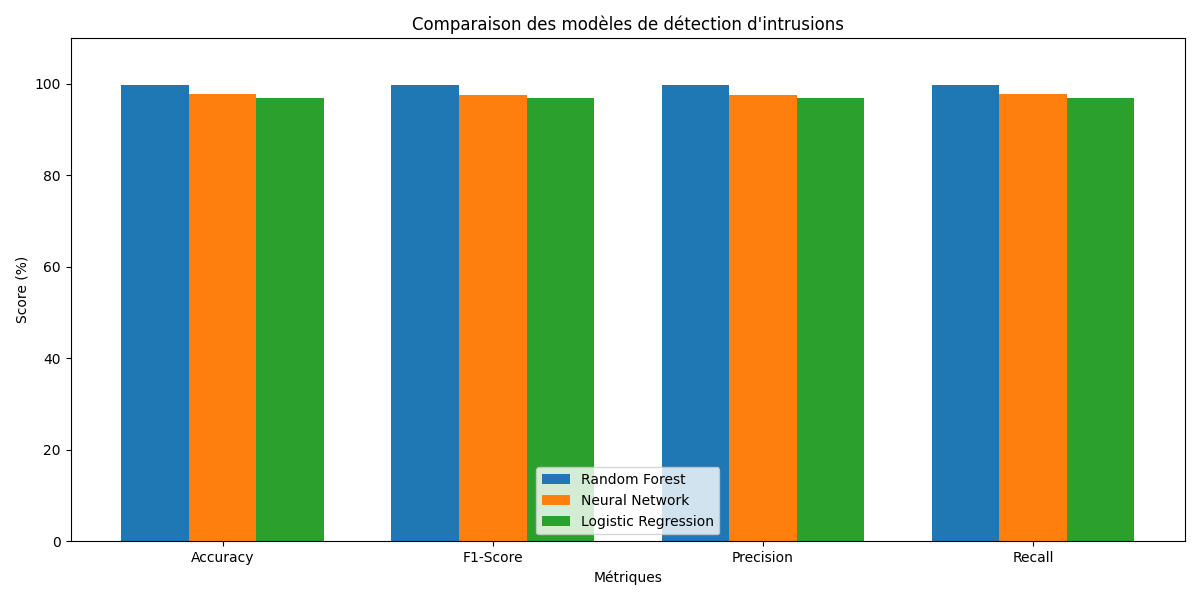
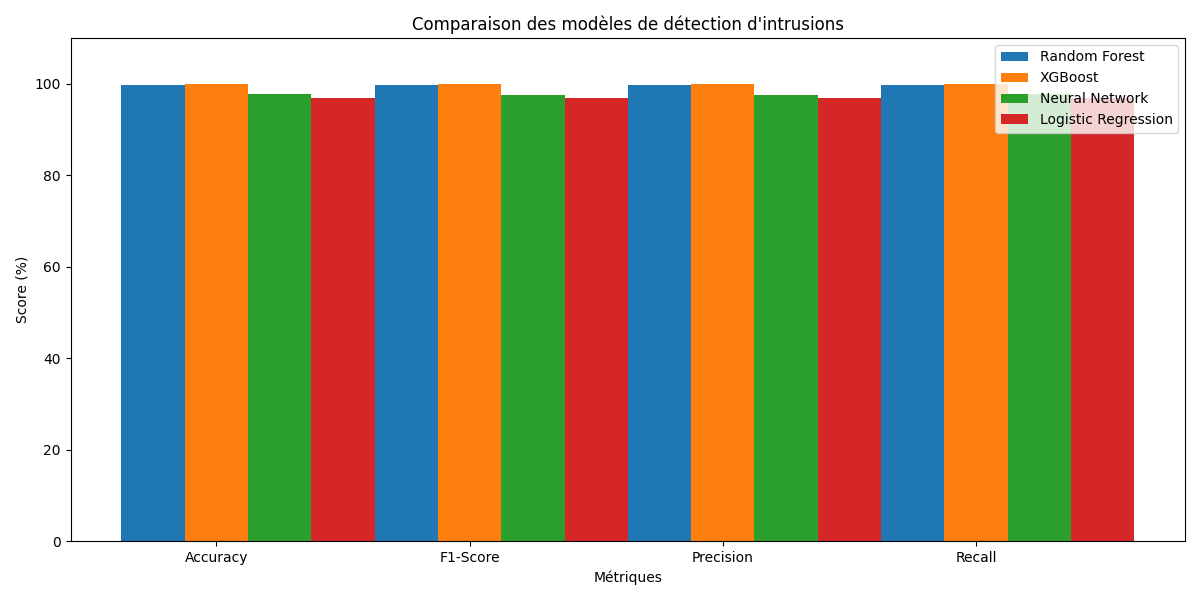
Add XGBoost to model comparison - 99.82% accuracy

diff --git a/compare_models.py b/compare_models.py
@@ -11,6 +11,14 @@ from sklearn.neural_network import MLPClassifier
 from sklearn.model_selection import train_test_split
 from sklearn.metrics import accuracy_score, f1_score, precision_score, recall_score
 from sklearn.preprocessing import LabelEncoder, StandardScaler
+from xgboost import XGBClassifier
+
+models = {
+    "Random Forest":       (RandomForestClassifier(n_estimators=100, random_state=42, n_jobs=-1), False),
+    "XGBoost":             (XGBClassifier(n_estimators=100, random_state=42, n_jobs=-1, verbosity=0), False),
+    "Neural Network":      (MLPClassifier(hidden_layer_sizes=(128, 64), max_iter=50, random_state=42), True),
+    "Logistic Regression": (LogisticRegression(max_iter=200, random_state=42, n_jobs=-1), True),
+}
 
 # ── Charger les données ──────────────────────────────────────
 print("Chargement des données...")
@@ -48,8 +56,9 @@ X_test_scaled  = scaler.transform(X_test)
 
 # ── Modèles à comparer ───────────────────────────────────────
 models = {
-    "Random Forest":     (RandomForestClassifier(n_estimators=100, random_state=42, n_jobs=-1), False),
-    "Neural Network":    (MLPClassifier(hidden_layer_sizes=(128, 64), max_iter=50, random_state=42), True),
+    "Random Forest":       (RandomForestClassifier(n_estimators=100, random_state=42, n_jobs=-1), False),
+    "XGBoost":             (XGBClassifier(n_estimators=100, random_state=42, n_jobs=-1, verbosity=0), False),
+    "Neural Network":      (MLPClassifier(hidden_layer_sizes=(128, 64), max_iter=50, random_state=42), True),
     "Logistic Regression": (LogisticRegression(max_iter=200, random_state=42, n_jobs=-1), True),
 }
 

diff --git a/README.md b/README.md
@@ -12,9 +12,10 @@ A complete machine learning system that detects network intrusions and cyberatta
 
 | Model | Accuracy | F1-Score | Training Time |
 |-------|----------|----------|---------------|
-| Random Forest | 99.72% | 99.71% | 5s |
-| Neural Network | 97.64% | 97.48% | 49s |
-| Logistic Regression | 96.83% | 96.80% | 7s |
+| XGBoost | 99.82% | 99.82% | 19s |
+| Random Forest | 99.72% | 99.71% | 6s |
+| Neural Network | 97.64% | 97.48% | 137s |
+| Logistic Regression | 96.83% | 96.80% | 9s |
 
 ## 🔍 Attack Types Detected
 